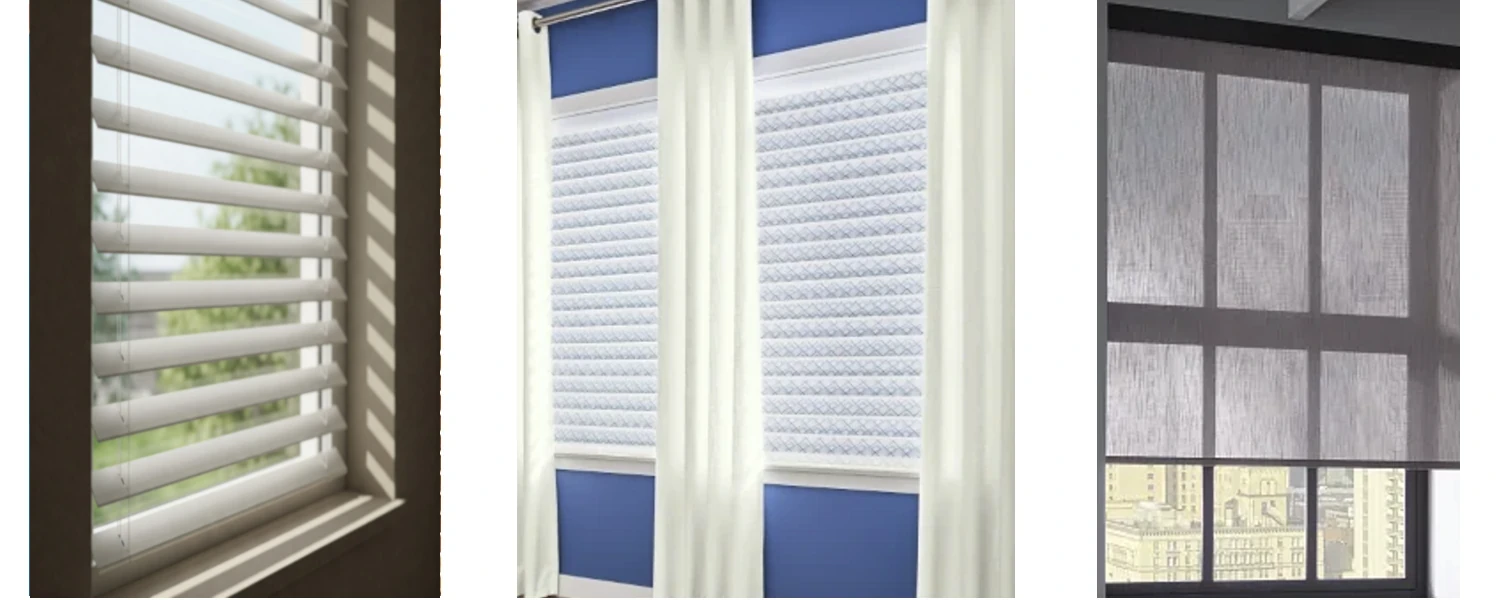
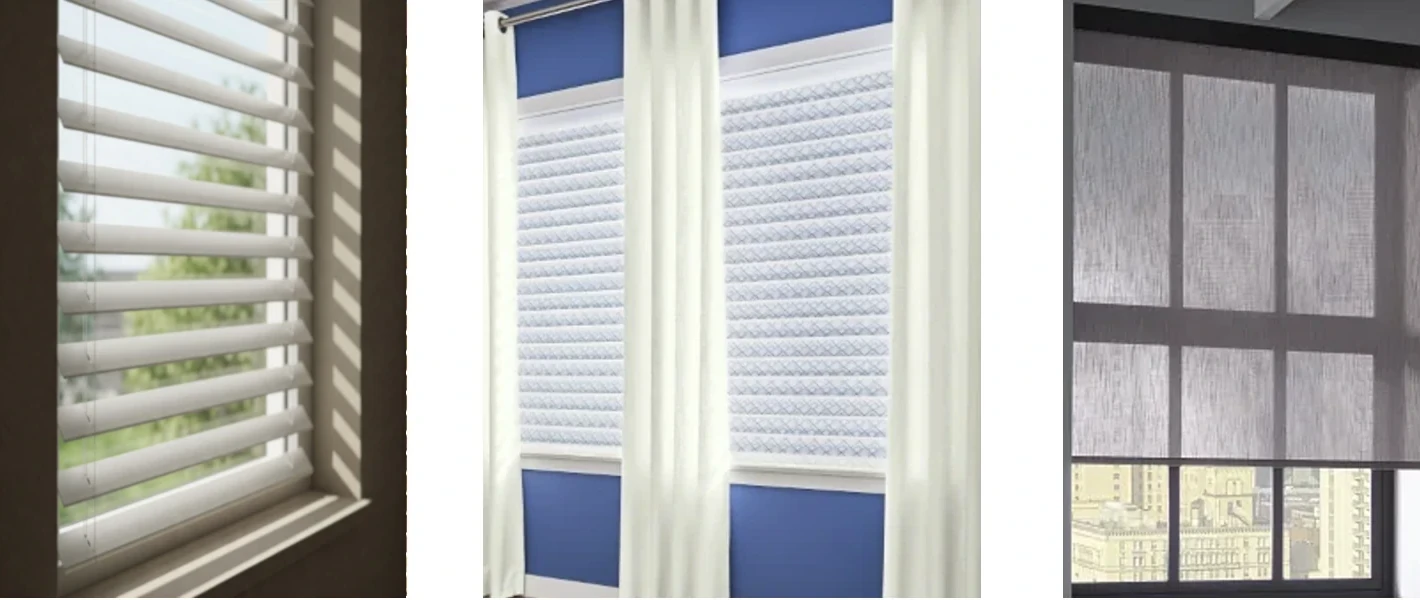
Update

diff --git a/blog.html b/blog.html
@@ -120,9 +120,9 @@
         </div>
 
         <div>
-          <p>We regularly share <span class="fw-bold">tips and guides</span> to help you <span class="fw-bold">find the perfect window treatments for your home</span>. Explore our latest articles and discover valuable insights that can help you <span class="fw-bold">choose the best window treatments</span>.</strong></p>
+          <p>We regularly share <span class="fw-bold">tips and guides</span> to help you <span class="fw-bold">find the perfect window treatments for your home</span>. Explore our latest articles and discover valuable insights that can help you <span class="fw-bold">choose the best window treatments</span>.</p>
 
-          <p class='fs-900 h-center margin-t-15'>Call Brent & Edna today at <a class='button2 vertical-align-text' href="tel:14052595599">405-259-5599</a> <br>for your window treatment questions.</p>
+          <p class='fs-900 h-center margin-t-15'>Call Brent & Edna today at <a class='button2 vertical-align-text' href="tel:14052595599">405-259-5599</a> <br />for your window treatment questions.</p>
         </div>
       </div>
     </section>
@@ -130,72 +130,72 @@
       <div class="container grid-3-col">
         <a href='/2025Trends.html'> <div class="card">
           <img src="images/21374-roller-shades.webp" alt="Graber Roller Shades" width='650' height='433'>
-          <h2 class='text-neutral-900 fs-500 left-align margin-t-15 balanced-text padding-left-5px'>Interior Design Trends For 2025 - 01-10-2025<span class='underline-text'> Click to Read More</span></h2>
+          <h2 class='text-neutral-900 fs-500 left-align margin-t-15 balanced-text padding-left-5px'>Interior Design Trends For 2025 - 01-10-2025<br /><span class='underline-text'>Click to Read More</span></h2>
         </div></a>
         <a href='/WindowShadeOpacitiesExplained.html'>
           <div class="card">
             <img src="images/4110-layered-shades-rs23-v1.webp" alt="Graber Layered Shades" width='650' height='433'>
-            <h2 class='text-neutral-900 fs-500 left-align margin-t-15 balanced-text padding-left-5px'>Window Shade Opacities, Explained - 01-17-2025 <span class='underline-text'> Click to Read More</span></h2>
+            <h2 class='text-neutral-900 fs-500 left-align margin-t-15 balanced-text padding-left-5px'>Window Shade Opacities, Explained - 01-17-2025<br /><span class='underline-text'>Click to Read More</span></h2>
           </div>
         </a>
         <a href='/fiveCustomBlindReasons.html'>
           <div class="card">
-            <img src="images/7247-sheer-shades-rs20-v1-650wide.webp" alt="Graber Sheer Shades">
-            <h2 class='text-neutral-900 fs-500 left-align margin-t-15 balanced-text padding-left-5px'>Five Reasons To Choose Custom Blinds And Shades 01-24-2025<span class='underline-text'> Click to Read More</span></h2>
+            <img src="images/7247-sheer-shades-rs20-v1-650wide.webp" alt="Graber Sheer Shades" width='650' height='434'>
+            <h2 class='text-neutral-900 fs-500 left-align margin-t-15 balanced-text padding-left-5px'>Five Reasons To Choose Custom Blinds And Shades 01-24-2025<br /><span class='underline-text'>Click to Read More</span></h2>
           </div>
         </a>
         <a href='/LuxuryWindowTreatments.html'>
           <div class="card">
             <img src="images/5250-sheer-shades-rs20-v1.webp" alt="Graber Sheer Shades" width='650' height='434'>
-            <h2 class='text-neutral-900 fs-500 left-align margin-t-15 balanced-text padding-left-5px'>Luxury Blinds and Shades for Windows - 01-31-2025<span class='underline-text'> Click to Read More</span></h2>
+            <h2 class='text-neutral-900 fs-500 left-align margin-t-15 balanced-text padding-left-5px'>Luxury Blinds and Shades for Windows - 01-31-2025<br /><span class='underline-text'>Click to Read More</span></h2>
           </div>
         </a>
         <a href='/Top-Five-Window-Treatment-Trends-in-Oklahoma-City.html'>
           <div class="card">
-            <img src="images/16801-roller-shade-rs20-v2.webp" alt="Graber Roller Shades">
-            <h2 class='text-neutral-900 fs-500 left-align margin-t-15 balanced-text padding-left-5px'>Top 5 Window Treatment Trends in Oklahoma City & Edmond - 02-06-2025</h2>
+            <img src="images/16801-roller-shade-rs20-v2.webp" alt="Graber Roller Shades" width='650' height='434'>
+            <h2 class='text-neutral-900 fs-500 left-align margin-t-15 balanced-text padding-left-5px'>Top 5 Window Treatment Trends in Oklahoma City & Edmond - 02-06-2025<br /><span class='underline-text'>Click to Read More</span></h2>
           </div>
         </a>
         <a href='/shades-and-shutters-and-blinds-oh-my.html'>
           <div class="card">
-            <img src="images/3406-classic-roman-shade-rs22-v2-full-size.webp" alt="Classic Graber Roman Shades">
-            <h2 class='text-neutral-900 fs-500 left-align margin-t-15 balanced-text padding-left-5px'>Shades and Shutters and Blinds, Oh My! - 02/13/2025<span class='underline-text'> Click to Read More</span></h2>
+            <img src="images/3406-classic-roman-shade-rs22-v2-full-size.webp" alt="Classic Graber Roman Shades" width='650' height='434'>
+            <h2 class='text-neutral-900 fs-500 left-align margin-t-15 balanced-text padding-left-5px'>Shades and Shutters and Blinds, Oh My! - 02/13/2025<br /><span class='underline-text'>Click to Read More</span></h2>
           </div>
         </a>
         <a href='/motorized-window-treatments-for-OKC.html'>
           <div class="card">
-            <img src="images/2409-pleated-shades-no-liner-rs22-v1-narrow.webp" alt="Graber Pleated Shades">
-            <h2 class='text-neutral-900 fs-500 left-align margin-t-15 balanced-text padding-left-5px'>Smart Home Integration - 2-20-2025<span class='underline-text'> Click to Read More</span></h2>
+            <img src="images/2409-pleated-shades-no-liner-rs22-v1-narrow.webp" alt="Graber Pleated Shades" width='650' height='434'>
+            <h2 class='text-neutral-900 fs-500 left-align margin-t-15 balanced-text padding-left-5px'>Smart Home Integration - 2-20-2025<br /><span class='underline-text'>Click to Read More</span></h2>
           </div>
         </a>
         <a href='/zebra-shades-stylish-solution.html'>
           <div class="card">
-            <img src="images/4110-layered-shades-rs23-v1.webp" alt="Picture of Zebra Shades">
-            <h2 class='text-neutral-900 fs-500 left-align margin-t-15 balanced-text padding-left-5px'>Zebra Shades: Window Coverings, Not Wildlife! - 3-15-2025<span class='underline-text'> Click to Read More</span></h2>
+            <img src="images/4110-layered-shades-rs23-v1.webp" alt="Picture of Zebra Shades" width='650' height='434'>
+            <h2 class='text-neutral-900 fs-500 left-align margin-t-15 balanced-text padding-left-5px'>Zebra Shades: Window Coverings, Not Wildlife! - 3-15-2025<br /><span class='underline-text'>Click to Read More</span></h2>
           </div>
         </a>
         <a href='/Window-Treatment-Value.html'>
           <div class="card">
-            <img src="/images/0726-cellular shades-rs20-v1.webp" alt="">
-            <h2 class='text-neutral-900 fs-500 left-align margin-t-15 balanced-text padding-left-5px'>Are Window Treatments Really Worth the Investment - 03-29-2025<span class='underline-text'> Click to Read More</span></h2>
+            <img src="/images/0726-cellular-shades-rs20-v1.webp" alt="Graber Cellular Shades" width='650' height='434'>
+            <h2 class='text-neutral-900 fs-500 left-align margin-t-15 balanced-text padding-left-5px'>Are Window Treatments Really Worth the Investment - 03-29-2025<br /><span class='underline-text'>Click to Read More</span></h2>
           </div>
         </a>
-        <a href='Best-Alternatives-to-Blinds.html'>
+        <a href='/Best-Alternatives-to-Blinds.html'>
           <div class="card">
-            <img src="/images/Blind-Alternatives.webp" alt="Blind alternatives">
-            <h2 class='text-neutral-900 fs-500 left-align margin-t-15 balanced-text padding-left-5px'>Best Alternatives to Blinds: Shades & Shutters - 4-10-2025<span class='underline-text'> Click to Read More</span></h2>
+            <img src="/images/Blind-Alternatives.webp" alt="Blind alternatives" width='650' height='434'>
+            <h2 class='text-neutral-900 fs-500 left-align margin-t-15 balanced-text padding-left-5px'>Best Alternatives to Blinds: Shades & Shutters - 4-10-2025<br /><span class='underline-text'> Click to Read More</span></h2>
           </div>
         </a>
         <!-- <a href='/2025Trends.html'>
           <div class="card">
             <img src="images/" alt="">
-            <h2 class='text-neutral-900 fs-500 left-align margin-t-15 balanced-text padding-left-5px'><span class='underline-text'> Click to Read More</span></h2>
+            <h2 class='text-neutral-900 fs-500 left-align margin-t-15 balanced-text padding-left-5px'><br /><span class='underline-text'> Click to Read More</span></h2>
           </div>
         </a> -->
         <!-- <a href='/2025Trends.html'>
           <div class="card">
             <img src="images/" alt="">
-            <h2 class='text-neutral-900 fs-500 left-align margin-t-15 balanced-text padding-left-5px'><span class='underline-text'> Click to Read More</span></h2>
+            <h2 class='text-neutral-900 fs-500 left-align margin-t-15 balanced-text padding-left-5px'><br /><span class='underline-text'> Click to Read More</span></h2>
           </div>
         </a> -->
       </div>

diff --git a/Window-Treatment-Value.html b/Window-Treatment-Value.html
@@ -112,7 +112,7 @@
         </div>
       </div>
         <!-- <div class="card margin-tb-25">
-          <img src="/images/0726-cellular shades-rs20-v1.webp" alt="Graber Cellular Shades" width="400" height="400">
+          <img src="/images/0726-cellular-shades-rs20-v1.webp" alt="Graber Cellular Shades" width="400" height="400">
         </div> -->
       <div class="container">
         <div class="card">
